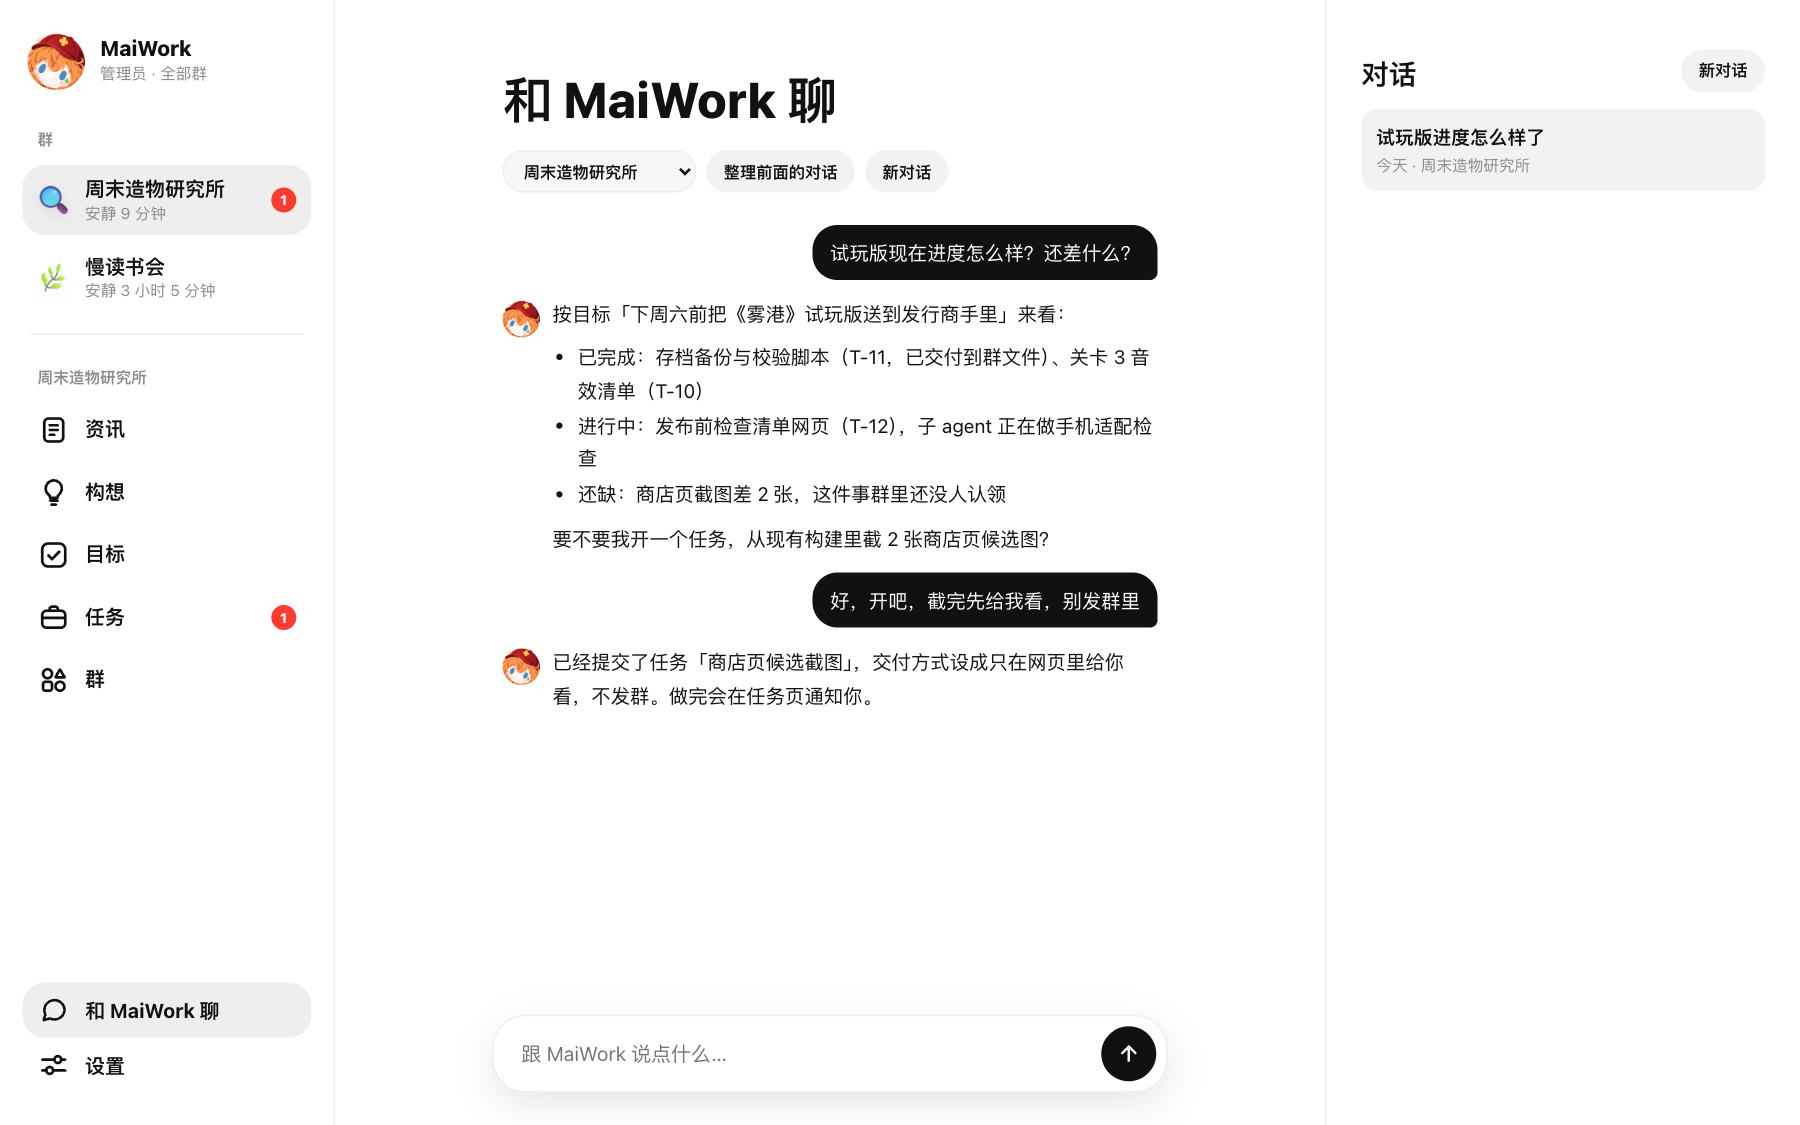
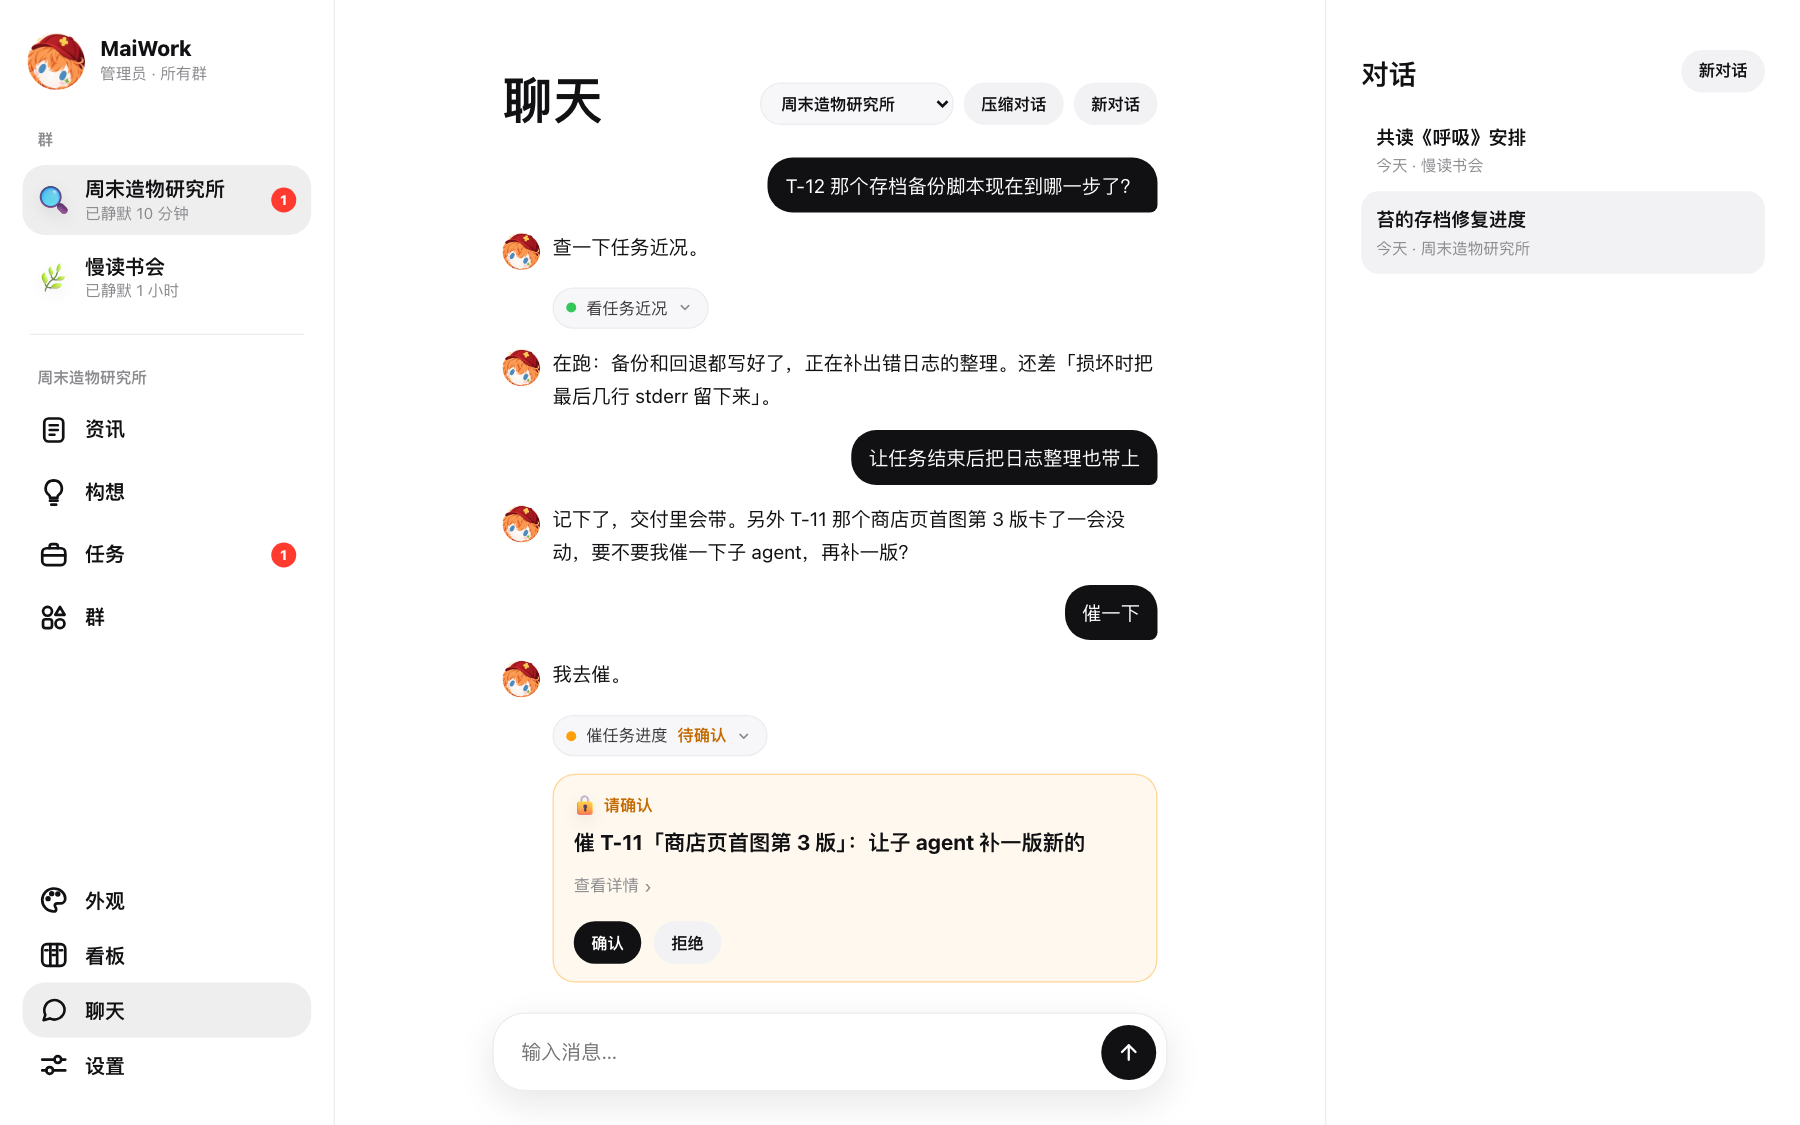
README：换上 0.12.0 界面截图，新增看板两张图

diff --git a/README.md b/README.md
@@ -57,18 +57,31 @@
 <td width="50%"><img src="docs/images/task-delivered.png" alt="任务" /><br /><sub><b>任务</b>：等批准、进行中、交付；每一步谁做了什么都看得到</sub></td>
 </tr>
 <tr>
-<td width="50%"><img src="docs/images/chat.png" alt="和 MaiWork 聊" /><br /><sub><b>和 MaiWork 聊</b>：管理员直接问进度、提要求</sub></td>
-<td width="50%"><img src="docs/images/settings.png" alt="设置" /><br /><sub><b>运行状态</b>：模型、搜索、本机干活、专用机器、一次性 VM（Railway，可额外加 Freestyle）一眼看清</sub></td>
+<td width="50%"><img src="docs/images/chat.png" alt="聊天" /><br /><sub><b>聊天</b>：管理员直接问进度、提要求；要动手的操作先给你确认</sub></td>
+<td width="50%"><img src="docs/images/settings.png" alt="设置" /><br /><sub><b>设置概况</b>：各群今天的情况、待处理的事、用量和运行状态一页看清</sub></td>
 </tr>
 </table>
+
+### 看板
+
+只有总管理员能看、只看不改：每个专岗（主模型、资讯、构想、目标、通用任务、开话题）一栏平铺，进行中和做过的活各在哪一步一目了然；超过 10 分钟没动静的会标出来。
+
+<div align="center">
+<img src="docs/images/board.png" width="92%" alt="看板" />
+</div>
+
+点开任意一件，按时间看完整过程：调了哪些工具（输入、输出、耗时、成败）、模型每次回了什么，以及它的思考过程。
+
+<div align="center">
+<img src="docs/images/board-item.png" width="92%" alt="看板：单件过程" />
+</div>
 
 <div align="center">
 <img src="docs/images/mobile.png" width="92%" alt="手机端" />
 <br /><sub>手机上也能用：资讯、构想详情、任务批准</sub>
 </div>
 
-截图来自[在线演示](https://dewy-vow-gebh.here.now/)，群、成员和内容都是虚构的。
-> **图是旧版的**（0.7.x 时的界面，比如当时底栏还是 5 个、目标单独一页）。0.8.0 把「目标」并进「在做的事」、底栏变 4 个，这里的图暂未换新，**没有拿旧图冒充新版**。
+截图来自[在线演示](https://dewy-vow-gebh.here.now/)（0.12.0 的界面），群、成员和内容都是虚构的。
 
 ---
 
